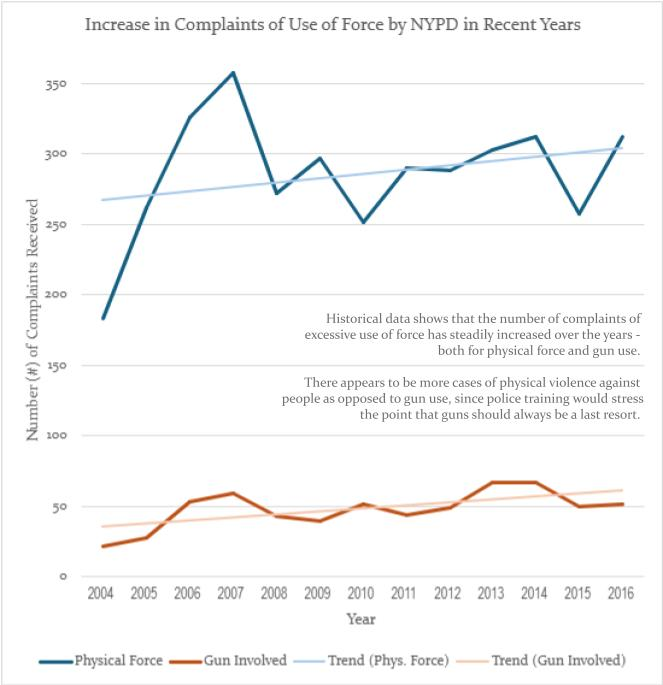
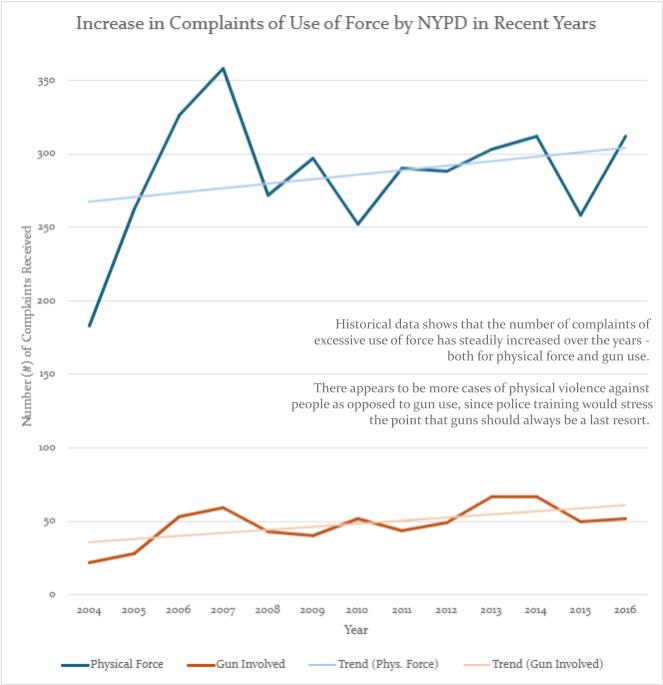
final push

diff --git a/index.html b/index.html
@@ -247,7 +247,8 @@
           The issue is both counts and proportions can be unaltered, yet be framed ever-so-slightly in different contexts. If the loosely-referenced "rate" 
           was about the count of complaints, then yes, the numbers show that the amount of complaints has been increasing on average. On the other hand. 
           if "rate" is in reference to the proportion of complaints as a whole, then no, the proportion of use-of-force complaints has actually been 
-          decreasing, which could signify that police officers are looking towards other less problematic methods besides physical force.<br>
+          decreasing, which could signify that police officers are looking towards other less problematic methods besides physical force. Although both data types 
+          are unaltered, I still gave each a score of 1 since either one can be chosen to support a certain stance.<br>
           <br>
           The small descriptions I added for each visualization summarize their respective visualizations according to its stance. The two do have 
           a similarity, in that they try to contextualize why the count of gun-involved incidents may be lower than incidents of physical force. They use 
@@ -255,7 +256,8 @@
           to point out that police tend to rely on physical force more than firearm use, which would explain the higher count of physical force complaints. The 
            rationale alludes to police training to reinforce the statement. Meanwhile, the "against" visualization frames this phenomenon slightly differently, noting that physical force complaints have been decreasing in 
           proportion to all complaints, while gun-involved incidents remained a steady, low proportion. This rationale also mentions police training as an explanation. Both contain 
-          fragments of truth that may help add to the overall credibility of each's visualization.<br>
+          fragments of truth that may help add to the overall credibility of each's visualization. Even so, they're both worded in ways to support their respective visualizations, 
+          which is why I gave them scores of 1.<br>
           <br>
           Both sides having honest representations of their data can cause confusion when propositions such as the one for this dataset are framed in a way that
            leaves some ambiguity. Would either of these graphs be considered deceptive, when both presented unaltered, pure data? Where is the line between deception and persuasion with
